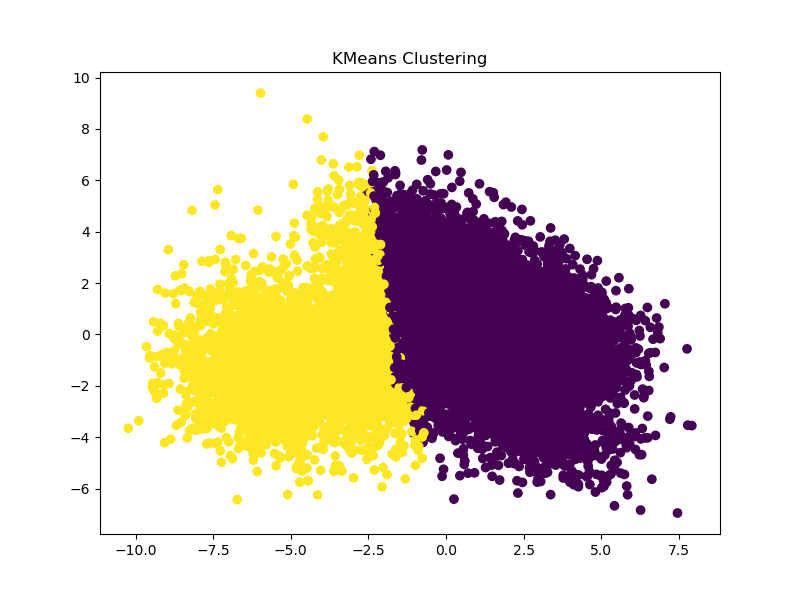
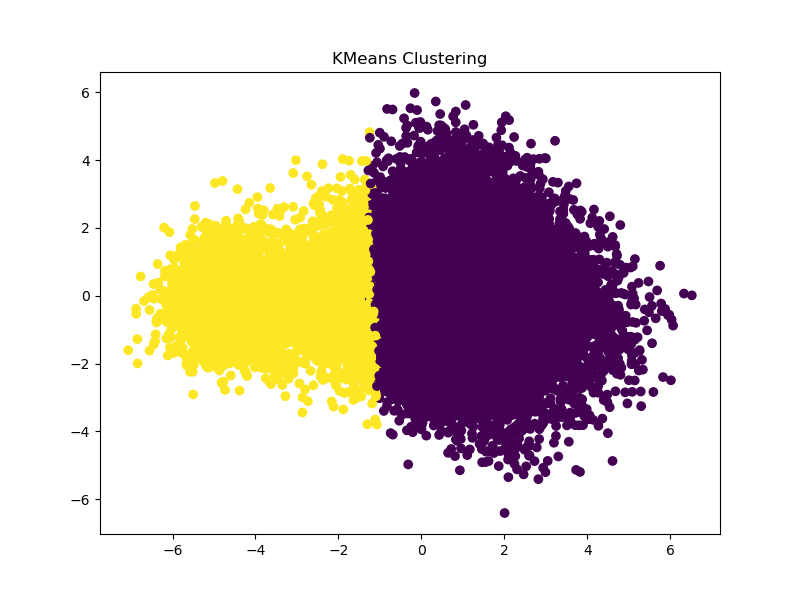
Improve clustering using PCA and dynamic K selection

diff --git a/src/pipeline/clustering_pipeline.py b/src/pipeline/clustering_pipeline.py
@@ -14,6 +14,9 @@ from src.models.evaluate_clustering import evaluate_clustering
 from src.utils.logger import get_logger
 from src.analysis.elbow_method import run_elbow_method
 
+from sklearn.preprocessing import StandardScaler
+
+
 logger = get_logger(__name__)
 
 BASE_DIR = Path(__file__).resolve().parents[2]
@@ -34,8 +37,18 @@ def run_clustering_pipeline():
         logger.info(f"Dataset shape: {df.shape}")
 
         # Preprocess
-        X, y, scaler = preprocess_data(df)
+        X, y, scaler, selector, feature_names = preprocess_data(df)
+
         logger.info("Preprocessing completed")
+
+        mlflow.log_text(str(feature_names), "selected_features.txt")
+
+        logger.info("Applying PCA for dimensionality reduction")
+
+        pca_model = PCA(n_components=5)
+        X = pca_model.fit_transform(X)
+
+        mlflow.log_param("pca_components", 5)
 
         reports_path = BASE_DIR / "reports"
         reports_path.mkdir(exist_ok=True)
@@ -46,10 +59,6 @@ def run_clustering_pipeline():
         # Train Models
         logger.info("Training clustering models")
         models = train_clustering_models(X)
-
-        # Create folders
-        reports_path = BASE_DIR / "reports"
-        reports_path.mkdir(exist_ok=True)
 
         figures_path = reports_path / "figures"
         figures_path.mkdir(exist_ok=True)
@@ -121,8 +130,8 @@ def run_clustering_pipeline():
 
                 # PCA VISUALIZATION (only if valid clustering)
                 if len(set(labels)) > 1:
-                    pca = PCA(n_components=2)
-                    X_pca = pca.fit_transform(X)
+                    pca_vis = PCA(n_components=2)
+                    X_pca = pca_vis.fit_transform(X)
 
                     plt.figure(figsize=(8, 6))
                     plt.scatter(X_pca[:, 0], X_pca[:, 1], c=labels)

diff --git a/src/models/cluster_model.py b/src/models/cluster_model.py
@@ -15,20 +15,28 @@ def train_clustering_models(X):
 
     for k in range(2, 6):
         logger.info(f"Training KMeans with k={k}")
+
         kmeans = KMeans(n_clusters=k, random_state=42)
         labels = kmeans.fit_predict(X)
 
-        score = silhouette_score(X, labels)
+        # Handle invalid clustering
+        if len(set(labels)) > 1:
+            score = silhouette_score(X, labels)
+            logger.info(f"k={k}, Silhouette Score={score}")
 
-        if score > best_score:
-            best_score = score
-            best_k = k
-            best_kmeans = kmeans
+            if score > best_score:
+                best_score = score
+                best_k = k
+                best_kmeans = kmeans
+
+    logger.info(f"Best KMeans: k={best_k}, score={best_score}")
+
     models["KMeans"] = (best_kmeans, best_score, best_k)
 
     logger.info("Training DBSCAN model")
-    dbscan = DBSCAN(eps=0.5, min_samples=10)
-    dbscan.fit(X)
-    models["DBSCAN"] = (dbscan, None, None)
+
+    dbscan = DBSCAN(eps=0.5, min_samples=5)
+    # dbscan.fit(X)
+    # models["DBSCAN"] = dbscan
 
     return models

diff --git a/src/models/evaluate_clustering.py b/src/models/evaluate_clustering.py
@@ -4,7 +4,10 @@ from src.utils.logger import get_logger
 logger = get_logger(__name__)
 
 def evaluate_clustering(model, X):
-    labels = model.labels_
+    if hasattr(model, "labels_"):
+        labels = model.labels_
+    else:
+        labels = model.fit_predict(X)
 
     unique_labels = set(labels)
 
